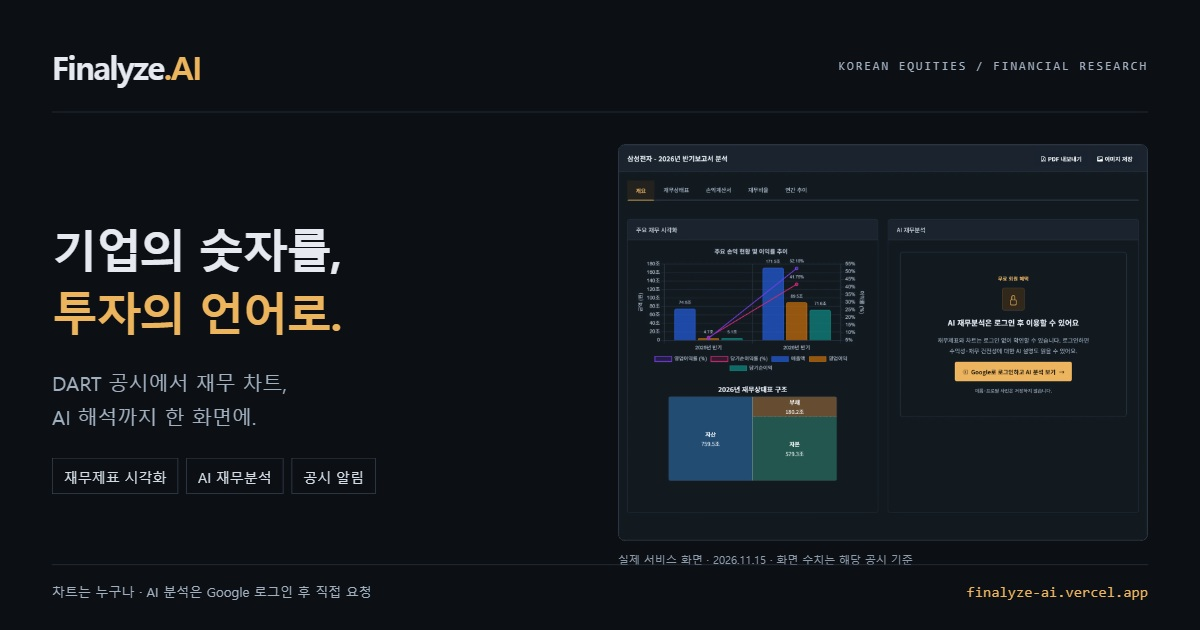
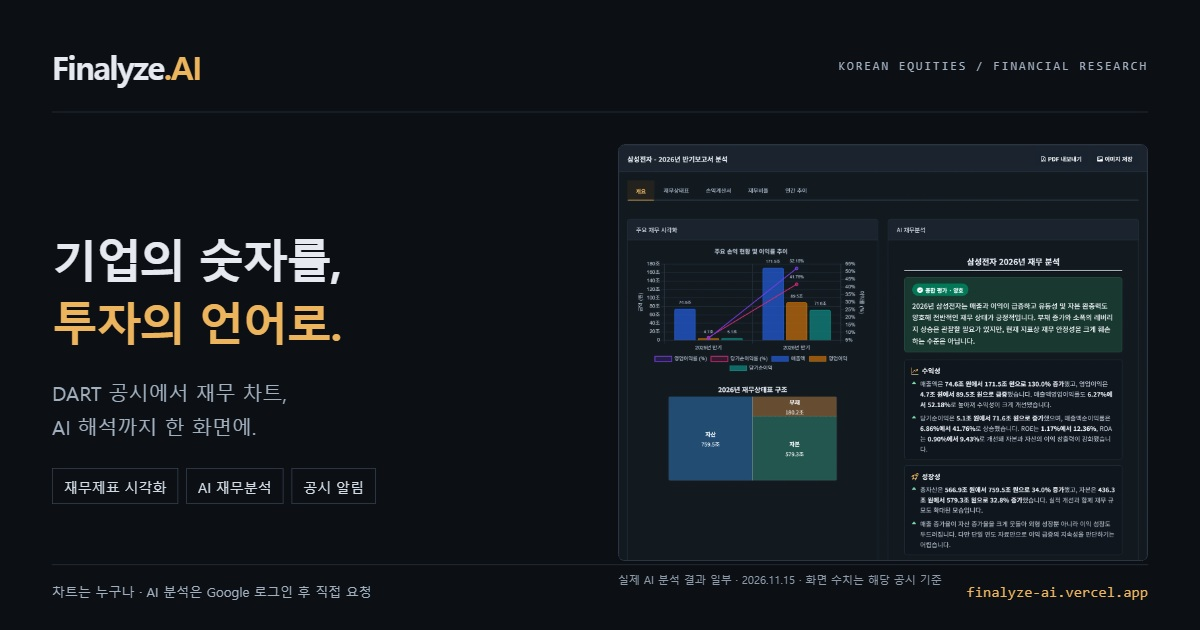
Show real member AI analysis in promotional materials

diff --git a/public/index.html b/public/index.html
@@ -21,7 +21,7 @@
   <meta property="og:description" content="DART 공시 데이터 기반 AI 재무분석. 한국 상장기업의 재무제표를 시각화하고 OpenAI GPT로 심층 분석합니다.">
   <meta property="og:url" content="https://finalyze-ai.vercel.app/">
   <meta property="og:site_name" content="Finalyze.AI">
-  <meta property="og:image" content="https://finalyze-ai.vercel.app/og-terminal-20261115.jpg">
+  <meta property="og:image" content="https://finalyze-ai.vercel.app/og-terminal-ai-20261115.jpg">
   <meta property="og:image:type" content="image/jpeg">
   <meta property="og:image:alt" content="Finalyze.AI — 기업의 숫자를, 투자의 언어로. 재무 차트·AI 분석·공시 알림">
   <meta property="og:image:width" content="1200">
@@ -32,7 +32,7 @@
   <meta name="twitter:card" content="summary_large_image">
   <meta name="twitter:title" content="Finalyze.AI - AI 기반 재무제표 분석 플랫폼">
   <meta name="twitter:description" content="DART 공시 데이터 기반 AI 재무분석. 한국 상장기업의 재무제표를 시각화하고 OpenAI GPT로 심층 분석합니다.">
-  <meta name="twitter:image" content="https://finalyze-ai.vercel.app/og-terminal-20261115.jpg">
+  <meta name="twitter:image" content="https://finalyze-ai.vercel.app/og-terminal-ai-20261115.jpg">
   <meta name="twitter:image:alt" content="Finalyze.AI — 기업의 숫자를, 투자의 언어로. 재무 차트·AI 분석·공시 알림">
 
   <!-- Favicon & App Icons -->

diff --git a/scripts/og-card.html b/scripts/og-card.html
@@ -10,7 +10,7 @@
  <header class="top"><div class="brand">Finalyze<span>.AI</span></div><div class="eyebrow">KOREAN EQUITIES / FINANCIAL RESEARCH</div></header>
  <div class="content">
   <div><h1>기업의 숫자를,<br><span>투자의 언어로.</span></h1><p class="description">DART 공시에서 재무 차트,<br>AI 해석까지 한 화면에.</p><div class="tags"><span>재무제표 시각화</span><span>AI 재무분석</span><span>공시 알림</span></div></div>
-  <figure class="preview"><img src="../public/images/finalyze-terminal-20261115.webp" alt="실제 터미널 테마의 재무 차트와 회원 AI 분석 안내"><figcaption>실제 서비스 화면 · 2026.11.15 · 화면 수치는 해당 공시 기준</figcaption></figure>
+  <figure class="preview"><img src="../public/images/finalyze-terminal-ai-20261115.webp" alt="실제 터미널 테마의 재무 차트와 실제 AI 분석 결과"><figcaption>실제 AI 분석 결과 일부 · 2026.11.15 · 화면 수치는 해당 공시 기준</figcaption></figure>
  </div>
  <footer class="footer"><span>차트는 누구나 · AI 분석은 Google 로그인 후 직접 요청</span><strong>finalyze-ai.vercel.app</strong></footer>
 </main>

diff --git a/README.md b/README.md
@@ -6,8 +6,8 @@
 
 ### 공유 이미지와 소개 자료
 
-- OG/Twitter 이미지: `public/og-terminal-20261115.jpg` (1200×630). `scripts/og-card.html`이 편집 가능한 원본이며, 브라우저에서 `#card`를 같은 크기로 렌더링합니다. 이미지 주소를 바꿔 공유 서비스의 이전 이미지 캐시와 구분합니다. `public/og-image.jpg`는 기존 주소 호환용으로 같은 이미지를 유지합니다.
-- 실제 화면: `public/images/finalyze-terminal-20261115.webp`. 삼성전자 2026년 반기보고서의 공개 차트·재무상태표와 회원 AI 분석 안내를 2026-11-15에 캡처했습니다. 화면 수치는 해당 공시 기준이며 실시간 수치가 아닙니다.
+- OG/Twitter 이미지: `public/og-terminal-ai-20261115.jpg` (1200×630). `scripts/og-card.html`이 편집 가능한 원본이며, 브라우저에서 `#card`를 같은 크기로 렌더링합니다. 이미지 주소를 바꿔 공유 서비스의 이전 이미지 캐시와 구분합니다. `public/og-image.jpg`는 기존 주소 호환용으로 같은 이미지를 유지합니다.
+- 실제 화면: `public/images/finalyze-terminal-ai-20261115.webp`. 삼성전자 2026년 반기보고서의 공개 차트·재무상태표와 실제 AI 분석 결과 중 종합평가·수익성·성장성을 2026-11-15에 캡처했습니다. 화면 수치는 해당 공시 기준이며 실시간 수치가 아닙니다.
 - 발표자료: `output/presentations/vibe-coding-20261107/index.html`, 원본 9장 버전, `vibe-coding-20261107-compact.html`에 같은 화면을 반영합니다. 단일 HTML 내부에 이미지·글꼴을 포함하고 compact 버전은 900KB·30만 자 제한을 확인합니다. 교체 전 자료는 `output/archives/before-terminal-materials-20261115/`에 보관했습니다.
 - 프로젝트 포털의 Finalyze.AI 소개·캡처는 별도 `bongwoo-projects` 저장소에서 관리합니다. 포털 자체의 공통 썸네일은 서비스 수에 의존하지 않습니다.
 
